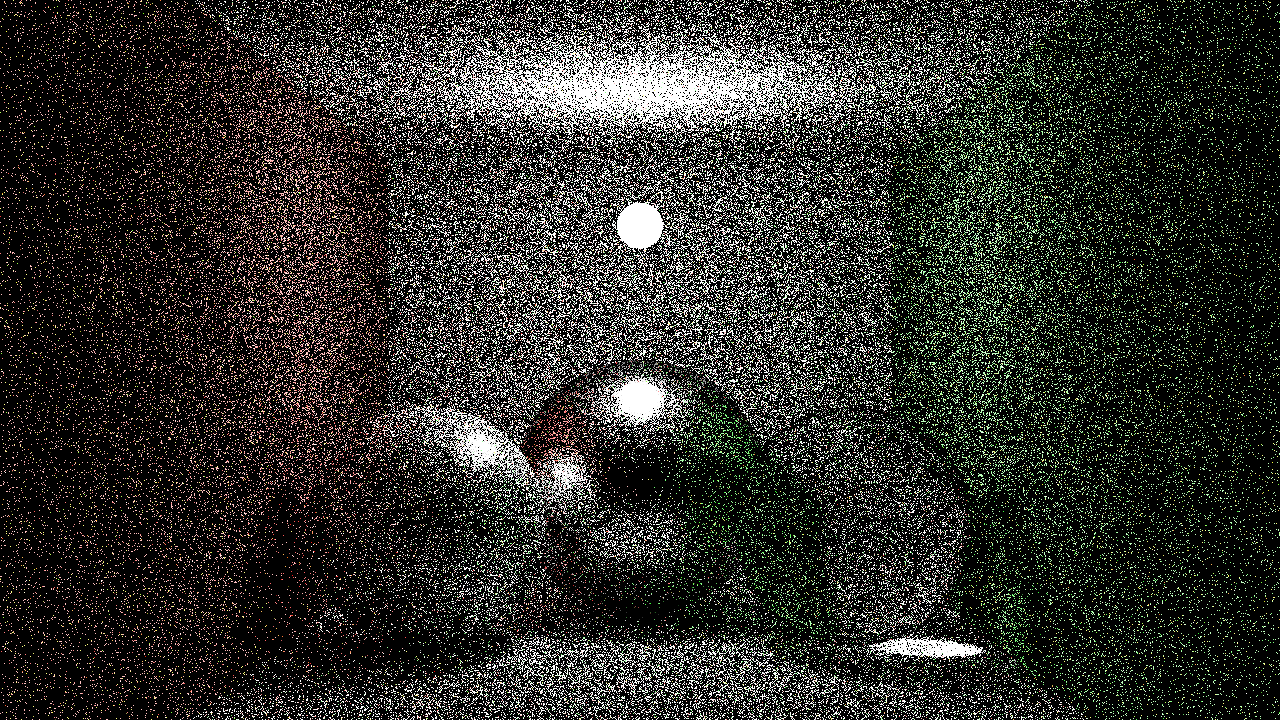
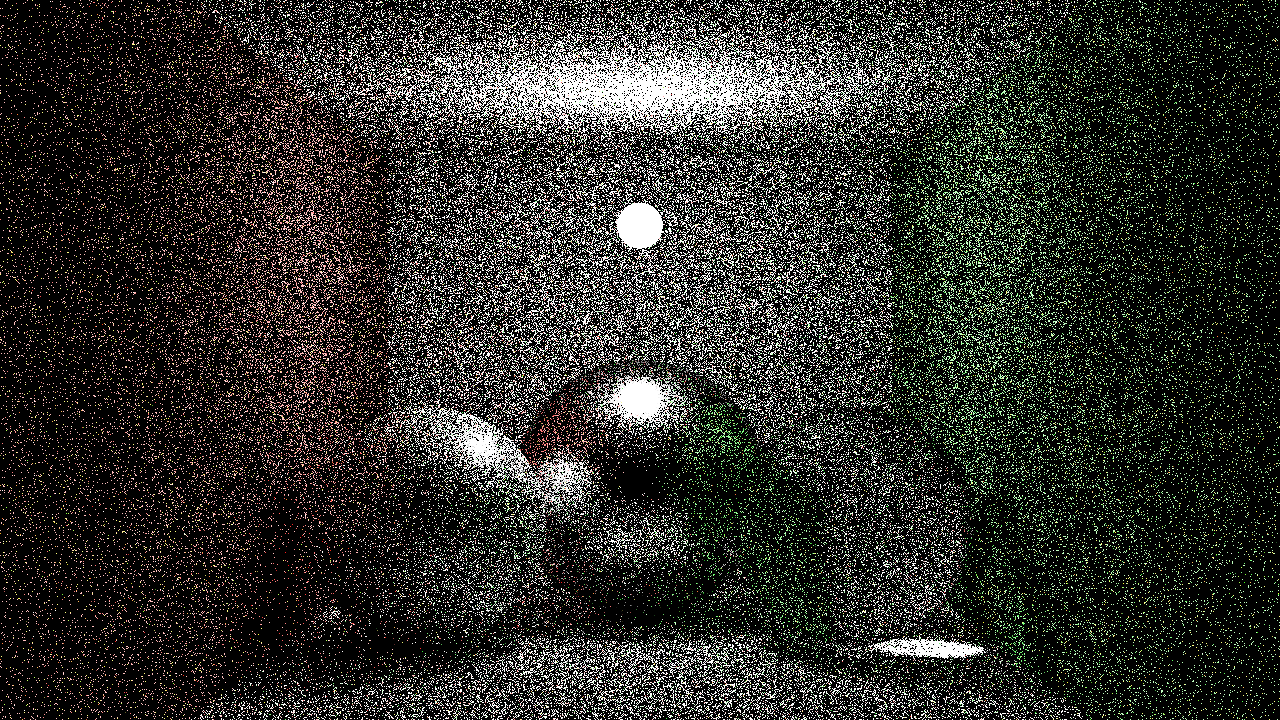
Implemented simple total internal refractions

Changed region(s): [[0.0, 0.0, 1.0, 1.0]]

diff --git a/src/materials.h b/src/materials.h
@@ -270,6 +270,7 @@ public:
 
             const float pdfH{ ((alpha + 1) / (2.0f * Pi<float>())) * powf(cosTheta, alpha) };
             si.prob = pdfH / (4.0f * sInfo.V().Dot(h));
+            //si.prob = pdfH * 4.0f;
             const float specNorm{ (alpha + 2.0f) / (8.0f * Pi<float>()) };
             si.mult = ((specularColor * specNorm * powf(nDotH, alpha)) / dir.Dot(sInfo.N())) / specularProb;
 
@@ -305,14 +306,12 @@ public:
             const float k{ 1.0f - eta * eta * (1.0f - vDotH * vDotH) };
             if (k < 0.0f)
             {
-                return false;
                 dir = h * 2.0f * std::max(0.0f, sInfo.V().Dot(h)) - sInfo.V();
                 if (dir.Dot(N) < 0.0f)
                     return false;
 
-                //si.prob = ((alpha + 1) / (2.0f * Pi<float>())) * powf(cosTheta, alpha) / (4.0f * sInfo.V().Dot(h));
-                si.prob = 1.0f;
-                const float specNorm{ (alpha + 2) / (2.0f * Pi<float>()) };
+                si.prob = ((alpha + 1) / (2.0f * Pi<float>())) * powf(cosTheta, alpha) / (4.0f * sInfo.V().Dot(h));
+                const float specNorm{ (alpha + 2.0f) / (8.0f * Pi<float>()) };
                 si.mult = (transmissiveColor * specNorm * powf(N.Dot(h), alpha)) / transmissiveProb;
 
                 return true;
@@ -347,6 +346,10 @@ public:
             const float bsdfVal{ numerator / denominator };
 
             si.prob = pdfH * jacobian;
+            //si.prob = pdfH / (4.0f * vDotH);
+            //si.prob = pdfH / 4.0f;
+            //const float specNorm{ (alpha + 2.0f) / (8.0f * Pi<float>()) };
+            //si.mult = ((transmissiveColor * specNorm * powf(N.Dot(h), alpha)) / dirDotN) / transmissiveProb;
             si.mult = (transmissiveColor * bsdfVal) / transmissiveProb;
 
             return true;
